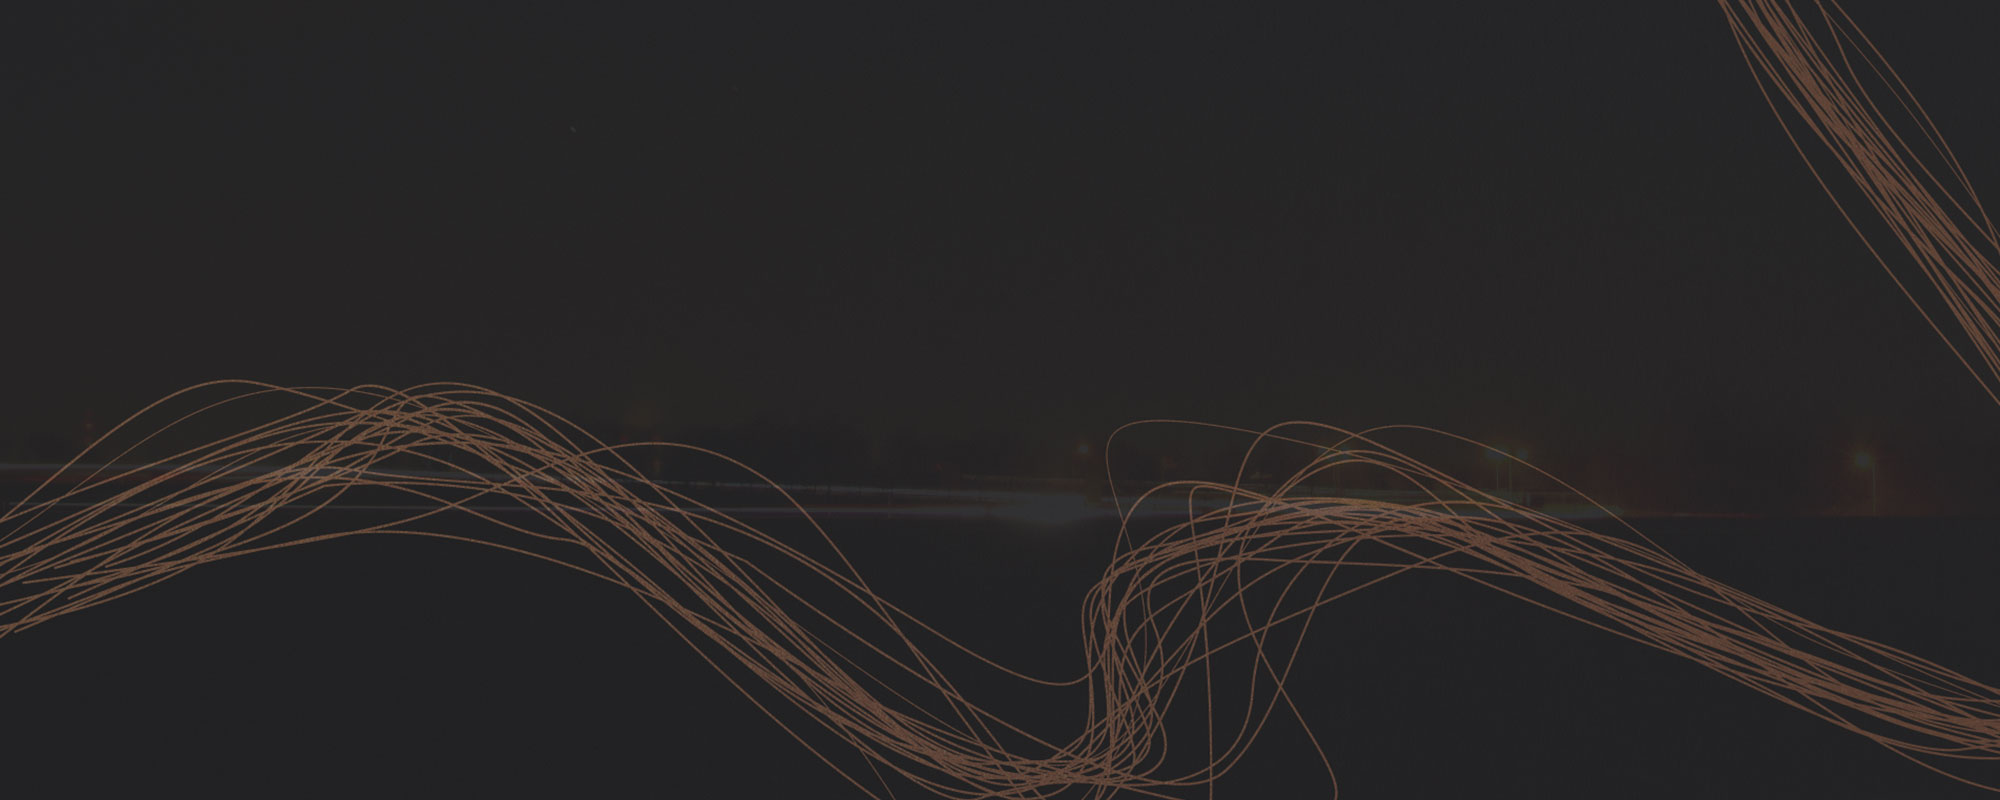
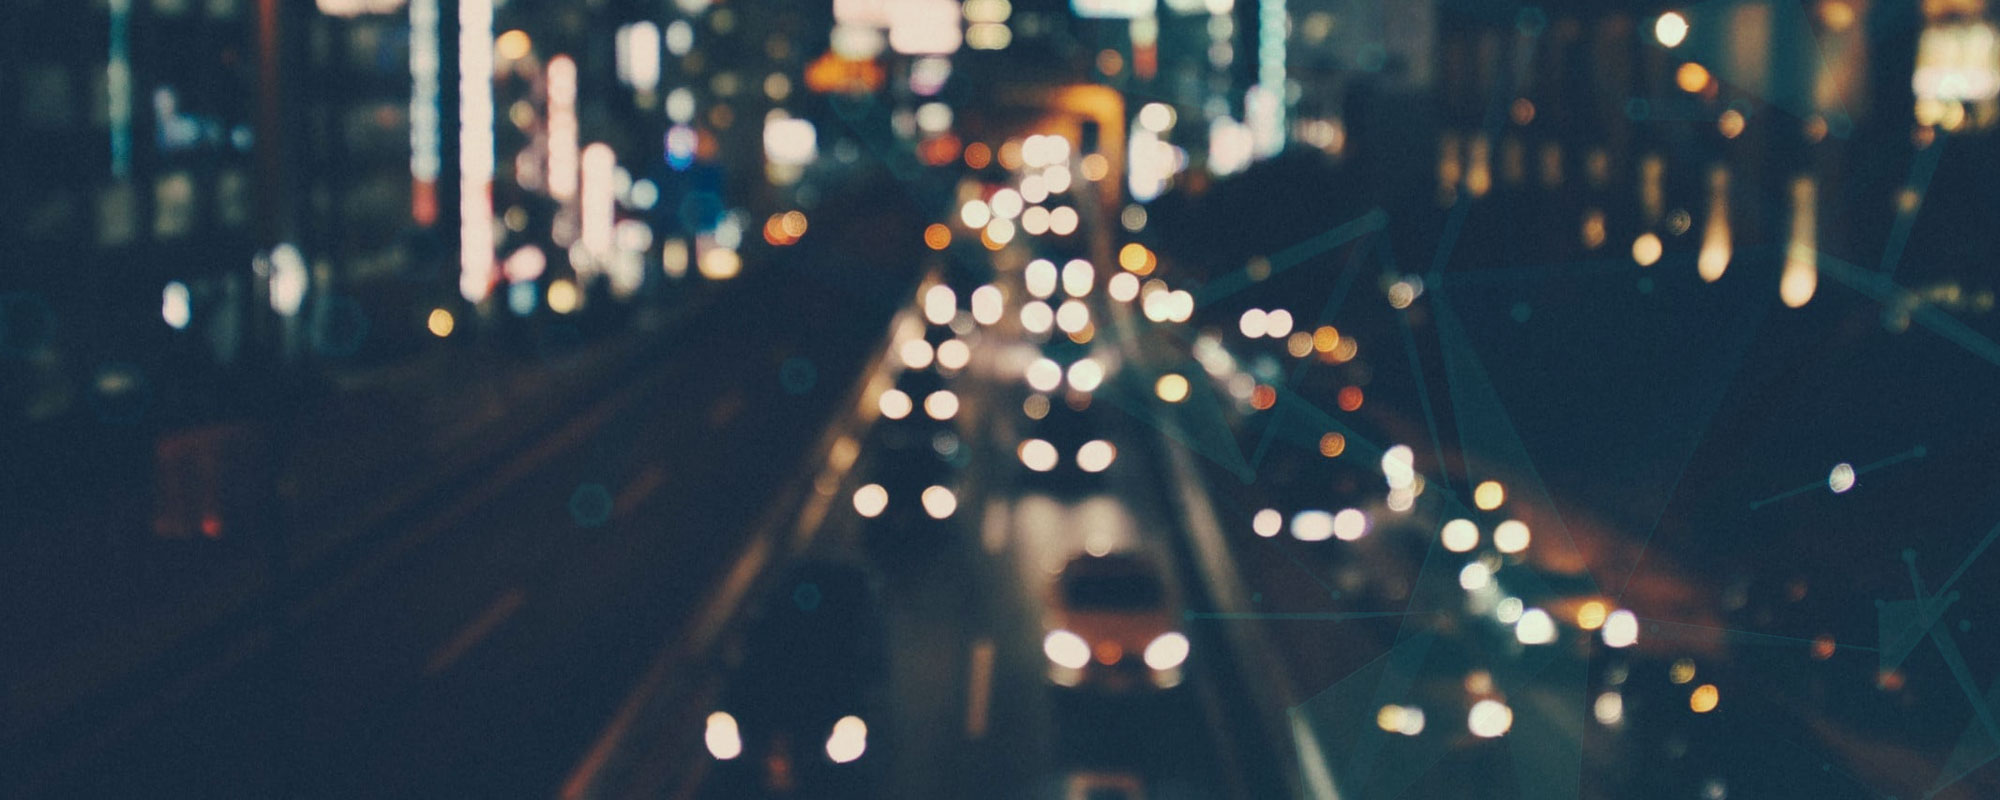
full site

diff --git a/assets/js/function.js b/assets/js/function.js
@@ -3,6 +3,7 @@ $(document).ready(function(){
   fixedheader();
   scrollimation();
   jqueryUI();
+  AppParticles();
 });
 
 
@@ -44,4 +45,128 @@ function scrollimation() {
 //Accordian Jquery UI
 function jqueryUI() {
   $( "#accordion" ).accordion();
+}
+
+
+function AppParticles() {
+  particlesJS('particles-js',
+  
+  {
+    "particles": {
+      "number": {
+        "value": 80,
+        "density": {
+          "enable": true,
+          "value_area": 800
+        }
+      },
+      "color": {
+        "value": "#ffffff"
+      },
+      "shape": {
+        "type": "circle",
+        "stroke": {
+          "width": 0,
+          "color": "#000000"
+        },
+        "polygon": {
+          "nb_sides": 5
+        },
+        "image": {
+          "src": "img/github.svg",
+          "width": 100,
+          "height": 100
+        }
+      },
+      "opacity": {
+        "value": 0.5,
+        "random": false,
+        "anim": {
+          "enable": false,
+          "speed": 1,
+          "opacity_min": 0.1,
+          "sync": false
+        }
+      },
+      "size": {
+        "value": 5,
+        "random": true,
+        "anim": {
+          "enable": false,
+          "speed": 40,
+          "size_min": 0.1,
+          "sync": false
+        }
+      },
+      "line_linked": {
+        "enable": true,
+        "distance": 150,
+        "color": "#ffffff",
+        "opacity": 0.4,
+        "width": 1
+      },
+      "move": {
+        "enable": true,
+        "speed": 6,
+        "direction": "none",
+        "random": false,
+        "straight": false,
+        "out_mode": "out",
+        "attract": {
+          "enable": false,
+          "rotateX": 600,
+          "rotateY": 1200
+        }
+      }
+    },
+    "interactivity": {
+      "detect_on": "canvas",
+      "events": {
+        "onhover": {
+          "enable": true,
+          "mode": "repulse"
+        },
+        "onclick": {
+          "enable": true,
+          "mode": "push"
+        },
+        "resize": true
+      },
+      "modes": {
+        "grab": {
+          "distance": 400,
+          "line_linked": {
+            "opacity": 1
+          }
+        },
+        "bubble": {
+          "distance": 400,
+          "size": 40,
+          "duration": 2,
+          "opacity": 8,
+          "speed": 3
+        },
+        "repulse": {
+          "distance": 200
+        },
+        "push": {
+          "particles_nb": 4
+        },
+        "remove": {
+          "particles_nb": 2
+        }
+      }
+    },
+    "retina_detect": true,
+    "config_demo": {
+      "hide_card": false,
+      "background_color": "#b61924",
+      "background_image": "",
+      "background_position": "50% 50%",
+      "background_repeat": "no-repeat",
+      "background_size": "cover"
+    }
+  }
+
+);
 }

diff --git a/assets/css/style.css b/assets/css/style.css
@@ -105,7 +105,7 @@ CSS FOR THE PROJECT STARTS HERE
 .store-btn:hover { background-color: #109af5; color: #fff; background-position: 12px -33px; }
 
 .header .container { -webkit-transition: all 0.6s ease; -moz-transition: all 0.6s ease; -ms-transition: all 0.6s ease; -o-transition: all 0.6s ease; transition: all 0.6s ease; }
-.header.fixed { position: fixed; background-color: rgba(1, 64, 108, 0.85); padding: 6px 0px; }
+.header.fixed { position: fixed; background-color: rgba(1, 64, 108, 1); padding: 6px 0px; }
 .header.fixed .container { max-width: 100%; }
 .header.fixed .logo img { max-width: 40px; }
 .header.fixed nav { margin-top: 9px; }
@@ -113,13 +113,14 @@ CSS FOR THE PROJECT STARTS HERE
 
 
 /* -----BANNER PART----- */
-.banner { background-position: center; background-repeat: no-repeat; background-size: cover;  position: relative; padding: 200px 0px 0px; margin: 0px 0px 20px; }
+.banner { background-position: center; background-repeat: no-repeat; background-size: cover; background-attachment: fixed;  position: relative; padding: 150px 0px 0px; margin: 0px 0px 20px; }
 #particles-js { position: absolute; left: 0px; top: 0px; width: 100%; height: 100%; opacity: 0.8; z-index: 2; }
-.banner .row { -webkit-display: flex; display: flex; -webkit-flex-flow: row wrap; flex-flow: row wrap; justify-content: space-between; align-items: center; }
-.banner .row .text { width: 30%; }
-.banner h3 { color: #fff; }
+.banner .row { -webkit-display: flex; display: flex; -webkit-flex-flow: row wrap; flex-flow: row wrap; justify-content: space-between; align-items: center; position: relative; z-index: 4; }
+.banner .row .text { width: 40%; padding-left: 10%; }
+.banner a.logo { display: inline-block; vertical-align: top; }
+.banner h3 { color: #fff; margin: 25px 0px 15px; }
 .banner p { color: #fff; }
-.banner .row .image { width: 70%; position: relative; margin-right: -70px; margin-bottom: -20px; }
+.banner .row .image { width: 60%; position: relative; text-align: right; }
 .banner .row .image img { max-width: 100%; }
 
 

diff --git a/index.php b/index.php
@@ -3,14 +3,12 @@
 	<!-- BANNER PART -->
 	<div class="banner" style="background-image: url(assets/images/banner-bg.jpg);">
 		<div id="particles-js"></div>
-		<div class="container">
-			<div class="row">
-				<div class="text">
-					<h3 class="scrollimation fade-right">get app that makes your life easier</h3>
-					<p class="scrollimation fade-right d1">Lorem ipsum dolor sit amet, consectetur adipisicing elit. Hic, placeat itaque unde. Ut ipsum recusandae pariatur eum quis quia et, nemo, non, perferendis repudiandae impedit magni. Repellat at, repudiandae quasi.</p>
-				</div>
-				<div class="image scrollimation fade-left"><img src="assets/images/banner_img.png" alt=""></div>
+		<div class="row">
+			<div class="text">
+				<h3 class="scrollimation fade-right">get app that makes your life easier</h3>
+				<p class="scrollimation fade-right d1">Lorem ipsum dolor sit amet, consectetur adipisicing elit. Hic, placeat itaque unde. Ut ipsum recusandae pariatur eum quis quia et, nemo, non, perferendis repudiandae impedit magni. Repellat at, repudiandae quasi.</p>
 			</div>
+			<div class="image scrollimation fade-left"><img src="assets/images/banner_img.png" alt=""></div>
 		</div>
 	</div>
 

diff --git a/include/footer.php b/include/footer.php
@@ -27,7 +27,6 @@
 	<script type="text/javascript" src="assets/js/function.js"></script>
   	<!-- Home page banner particals -->
 	<script src="assets/js/particles.js"></script>
-	<script src="assets/js/app-particles.js"></script>
 	<!-- Page item move on loard -->
 	<script src="assets/js/waypoints.min.js"></script>
 	<!-- jquery Ui js -->
